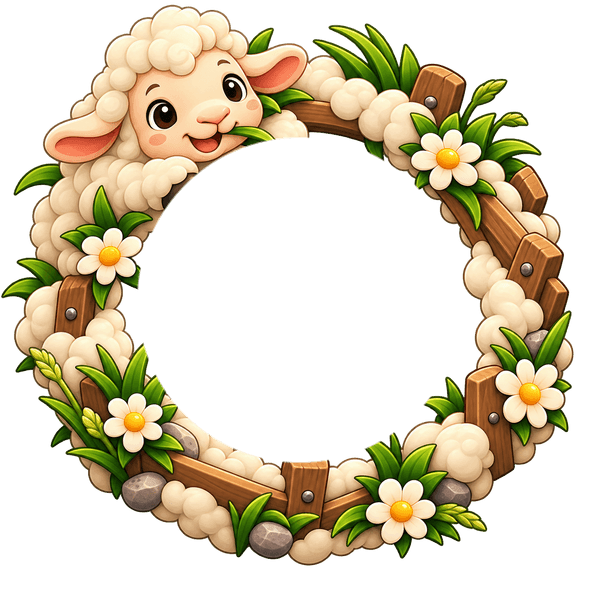
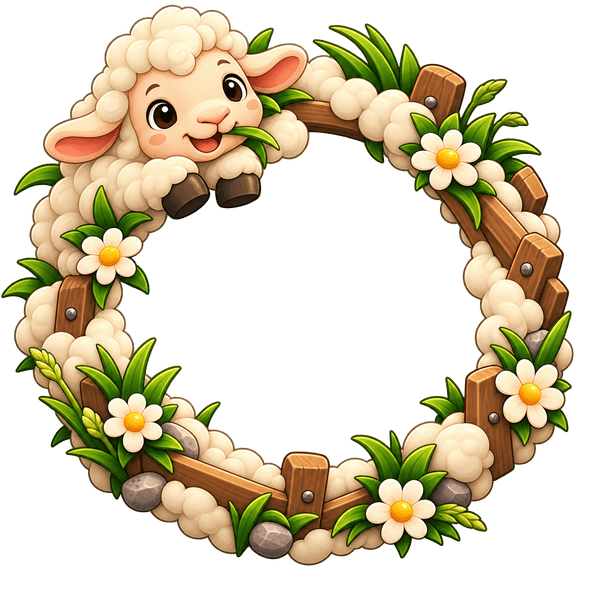
Profilringar: djuren ovanpå profilbilden igen, ringraden kant i kant
- Tillbaka till oklippta ringar: djuret sitter ovanpå och får täcka en bit av profilbilden.
- Utseende: ringraden går kant i kant som kortraden, utan marginal längst ut.

diff --git a/src/lib/avatarRings.ts b/src/lib/avatarRings.ts
@@ -7,10 +7,9 @@
  * kan välja en ring den inte låst upp.
  *
  * Ringarnas konst: gjord i ChatGPT, beskuren så att hålet ligger exakt i bildens mitt
- * (assets/rings/ring-<id>.png). Allt av ringen innanför profilbildens cirkel är bortklippt, så
- * djuret aldrig täcker profilbilden — det tittar fram bakom den. holeRatio = profilbildens
- * diameter / ringbildens bredd (hålets mediandiameter, uppmätt). Utan bild ritas ringen som en
- * enkel metallring i sina färger.
+ * (assets/rings/ring-<id>.png). Djuret sitter ovanpå ringen och får gärna täcka en bit av
+ * profilbilden. holeRatio = hålets diameter / bildens bredd, uppmätt vid beskärningen och 4 %
+ * mindre, så ringen täcker profilbildens kant. Utan bild ritas ringen som en enkel metallring.
  */
 
 export type RingRule =
@@ -33,10 +32,10 @@ export interface AvatarRingDef {
 
 export const AVATAR_RINGS: AvatarRingDef[] = [
   { id: "none", rule: { kind: "free" } },
-  { id: "gris", rule: { kind: "treasures", count: 6 }, colors: ["#FFC9D6", "#E58FA4", "#8C4A3A"], image: require("../../assets/rings/ring-gris.png"), holeRatio: 0.58 },
-  { id: "far", rule: { kind: "treasures", count: 12 }, colors: ["#FFF6E2", "#E8D9B8", "#8A6B45"], image: require("../../assets/rings/ring-far.png"), holeRatio: 0.542 },
-  { id: "ko", rule: { kind: "treasures", count: 18 }, colors: ["#C8F0A8", "#7DBE54", "#6B4A2A"], image: require("../../assets/rings/ring-ko.png"), holeRatio: 0.578 },
-  { id: "kronhjort", rule: { kind: "allChallenges" }, colors: ["#F2C98E", "#C27A3A", "#5A3A1E"], image: require("../../assets/rings/ring-kronhjort.png"), holeRatio: 0.477 },
+  { id: "gris", rule: { kind: "treasures", count: 6 }, colors: ["#FFC9D6", "#E58FA4", "#8C4A3A"], image: require("../../assets/rings/ring-gris.png"), holeRatio: 0.568 },
+  { id: "far", rule: { kind: "treasures", count: 12 }, colors: ["#FFF6E2", "#E8D9B8", "#8A6B45"], image: require("../../assets/rings/ring-far.png"), holeRatio: 0.537 },
+  { id: "ko", rule: { kind: "treasures", count: 18 }, colors: ["#C8F0A8", "#7DBE54", "#6B4A2A"], image: require("../../assets/rings/ring-ko.png"), holeRatio: 0.553 },
+  { id: "kronhjort", rule: { kind: "allChallenges" }, colors: ["#F2C98E", "#C27A3A", "#5A3A1E"], image: require("../../assets/rings/ring-kronhjort.png"), holeRatio: 0.467 },
 ];
 
 export function findRing(id: string | null | undefined): AvatarRingDef | undefined {

diff --git a/app/settings/appearance.tsx b/app/settings/appearance.tsx
@@ -353,7 +353,8 @@ export default function AppearanceSettings() {
 
       <View>
         <Animated.Text style={[st.label, mMuted]}>{t("appearance.ring.title")}</Animated.Text>
-        <ScrollView horizontal showsHorizontalScrollIndicator={false} contentContainerStyle={st.ringRow}>
+        {/* Kant i kant, som kortraden — ingen marginal längst ut till vänster och höger */}
+        <ScrollView horizontal showsHorizontalScrollIndicator={false} style={{ marginHorizontal: -BODY_MARGIN }} contentContainerStyle={st.ringRow}>
           {AVATAR_RINGS.map((r, i) => (
             <RingOption
               key={r.id}
@@ -405,7 +406,7 @@ const st = StyleSheet.create({
 
   // Ringarna ligger direkt mot bakgrunden, utan ruta
   // Horisontell rad som scrollar i sidled — alla ringar på en rad
-  ringRow: { flexDirection: "row", paddingTop: 4, paddingHorizontal: 8 },
+  ringRow: { flexDirection: "row", paddingTop: 4 },
   ringItem: { alignItems: "center", gap: 4, width: RING_TILE },
   ringStage: { width: RING_TILE, height: RING_TILE, alignItems: "center", justifyContent: "center" },
   ringAvatar: { width: RING_AVATAR, height: RING_AVATAR },
